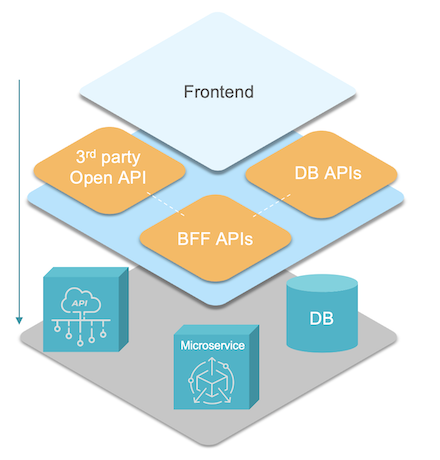
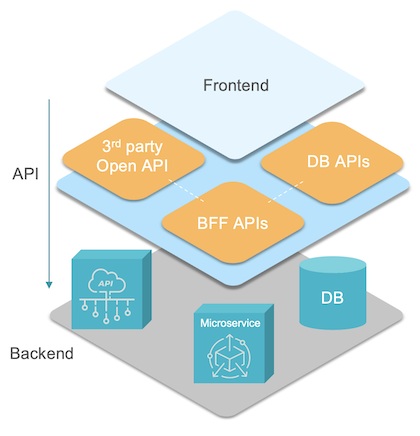
Added backend architecture diagram and content

diff --git a/docs/apis-and-services/concepts/overview.md b/docs/apis-and-services/concepts/overview.md
@@ -10,7 +10,7 @@ WaveMaker application backend is decoupled from the UI layer using well-defined 
 3. Generate database CRUD APIs by importing Schema (RDBMS)
 4. Create Spring or Java microservices
 
-WaveMaker app backend is built on Spring and Java technology stack enabling Java developers to fully customize the backend services, allowing them to integrate with Spring developer ecosystem and libraries.
+App backend is built on Spring and Java technology stack enabling Java developers to fully customize the backend services, allowing them to integrate with Spring developer ecosystem and libraries.
 
 ![Backend Layer](./assets/backend-layer.png)
 
@@ -36,7 +36,7 @@ Studio provides a workspace for working with Databases, for visualing the schema
 ### Create Microservices
 Build custom microservices in Java and generate corresponding APIs for
 - additional business logic
-- integrating with connectors for 3rd party systems like kafka, cassandra, EFK etc.
+- integrating with connectors for 3rd party systems like kafka, mongodb, EFK etc.
 - integrating with 3rd party libraries for authentication, logging, observability etc.
 
 

diff --git a/docs/apis-and-services/concepts/architecture.md b/docs/apis-and-services/concepts/architecture.md
@@ -4,12 +4,24 @@ last_update: { author: "Author Name" }
 
 # Architecture
 
+WaveMaker application backend architecture is composed of the following:
+1. Developer defined artifacts for APIs & microservices
+    - Imported Open API/Swagger spec, database schema
+    - Custom Java/Spring services created for API orchestration, business logic and connector integrations
+2. Platform provided services for
+    - Authentication 
+    - Auditing
+    - Logging
+    - Language support - i18n
+3. Security provider integrations for authentication & SSO support
+4. Extensions provided by Platform for DB, API callbacks, observability etc.
+    - Leverage existing developer ecosystem with Spring Data and Spring REST for event listeners
+    - Other Spring integrations with EFK, GraphQL, AI etc.
+5. Connectors for 3rd party systems such as kafka, mongodb, camunda, jasper etc.
+6. Generated code artifacts for ORM, REST controller and microservices
 
-
-## Overview
-
-
-
+## Detailed Architecture
+![Backend Layer](./assets/backend-architecture.png)
 
 
 ## Related Documentation
